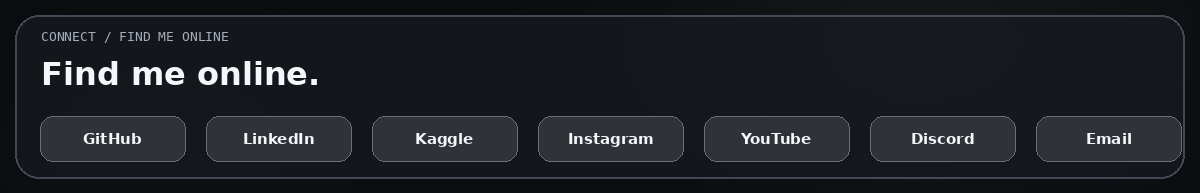
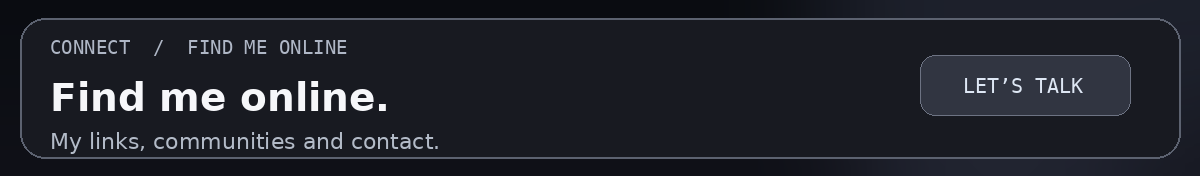
Profilev7

diff --git a/README.md b/README.md
@@ -45,9 +45,18 @@ I study Informatics and build useful web applications with **Python, JavaScript,
 
 <img src="assets/social-glass.png" alt="Social profiles" width="100%" />
 
-<table>
-<tr><td align="center"><a href="https://github.com/dion1727">GitHub</a></td><td align="center"><a href="https://www.linkedin.com/in/Dion%20Agung%20Kadang/">LinkedIn</a></td><td align="center"><a href="https://www.kaggle.com/dionagungkadang">Kaggle</a></td><td align="center"><a href="https://www.instagram.com/dionmrfs_d/">Instagram</a></td></tr>
-<tr><td align="center"><a href="https://www.youtube.com/@daizodn9742">YouTube</a></td><td align="center"><a href="https://discord.gg/diondn_">Discord</a></td><td align="center"><a href="mailto:dion1727agung@gmail.com">Email</a></td><td align="center"><a href="https://github.com/dion1727?tab=repositories">Repositories</a></td></tr>
-</table>
+<div align="center">
+
+<a href="https://github.com/dion1727"><img src="assets/link-github.png" width="174" alt="GitHub" /></a>
+<a href="https://www.linkedin.com/in/Dion%20Agung%20Kadang/"><img src="assets/link-linkedin.png" width="174" alt="LinkedIn" /></a>
+<a href="https://www.kaggle.com/dionagungkadang"><img src="assets/link-kaggle.png" width="174" alt="Kaggle" /></a>
+<a href="https://www.instagram.com/dionmrfs_d/"><img src="assets/link-instagram.png" width="174" alt="Instagram" /></a>
+
+<a href="https://www.youtube.com/@daizodn9742"><img src="assets/link-youtube.png" width="174" alt="YouTube" /></a>
+<a href="https://discord.gg/diondn_"><img src="assets/link-discord.png" width="174" alt="Discord" /></a>
+<a href="mailto:dion1727agung@gmail.com"><img src="assets/link-email.png" width="174" alt="Email" /></a>
+<a href="https://github.com/dion1727?tab=repositories"><img src="assets/link-repositories.png" width="174" alt="Repositories" /></a>
+
+</div>
 
 <p align="center"><sub>Code. Build. Play. Repeat. · <a href="https://github.com/dion1727">@dion1727</a></sub></p>
